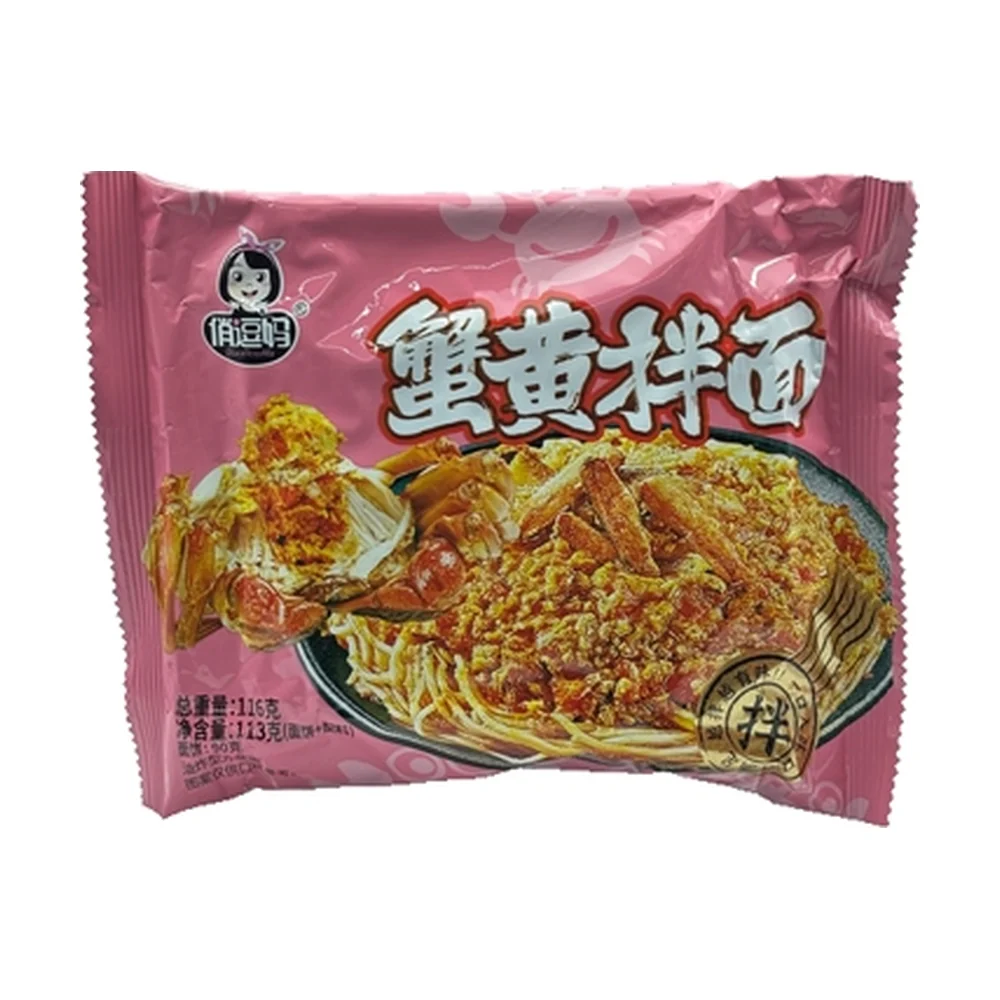
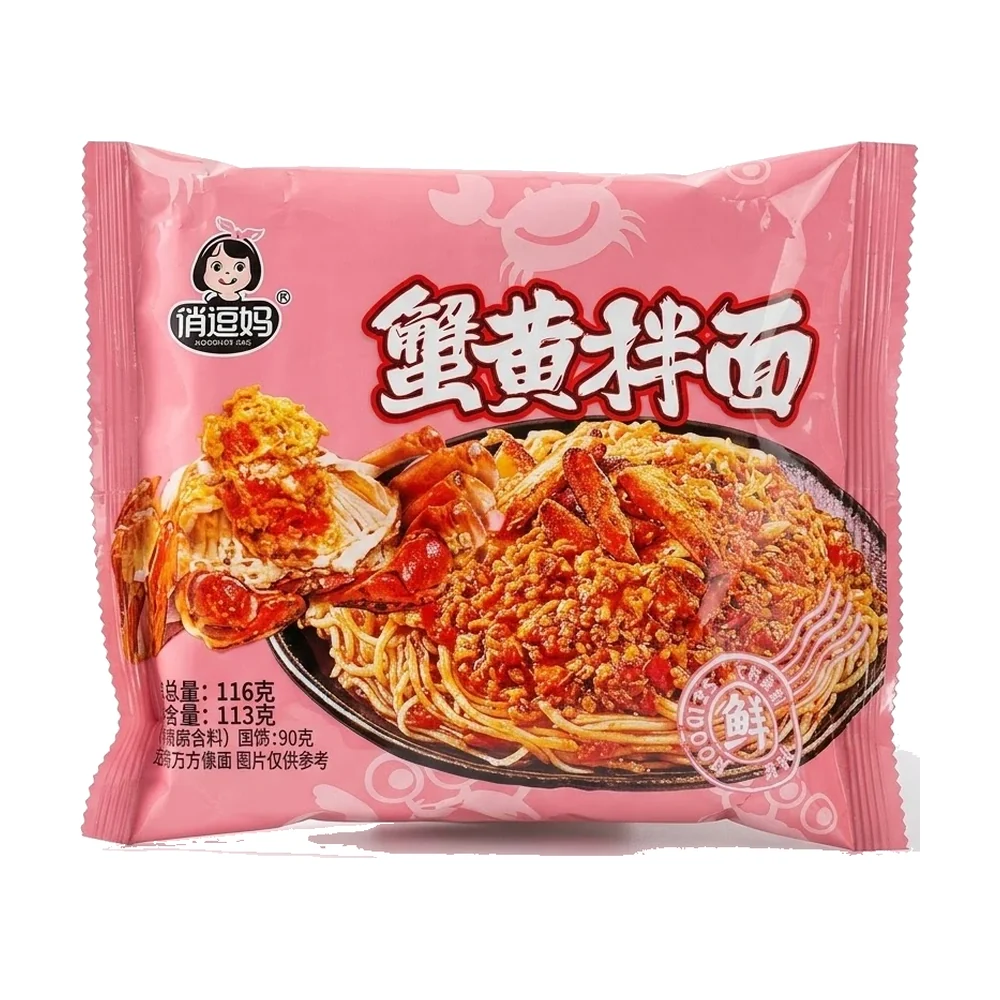
review(2549342-mi-tron-mi-kho-spaghetti-goi): crab-roe noodles from owner-approved AI image; RUBRIC v8
Claude-Session: https://claude.ai/code/session_01WMj85wQmgde5QuFckyUipF

diff --git a/RUBRIC.md b/RUBRIC.md
@@ -108,3 +108,4 @@ Category có thể có khuôn riêng chi tiết hơn trong `categories/<id>-<slu
 | v5 | 2026-10-14 | I4: ảnh đúng SP nhưng nền màu (ảnh nhân viên chụp, banner chính hãng có nền/hiệu ứng/chữ khuyến mãi) được **tách nền** bằng `tools/cutout.py` (cắt sát SP, bỏ huy hiệu/chữ ngoài SP). Chỉ cắt, **không** vẽ lại/sửa SP; mở ảnh xem viền, nắp/vành trắng; viền xấu → không dùng. Nguồn ảnh vẫn theo v3. | Chủ (Omachi Quán Xá Châu Á) |
 | v6 | 2026-10-14 | Nguồn ảnh: **ưu tiên ảnh hãng** (render/packshot chính hãng) hơn ảnh tự chụp hay ảnh KiotViet hiện có, kể cả khi ảnh hãng là bản bao bì gần giống (vd. gói thường thay cho bản "Bát To Đặc Biệt") miễn **cùng sản phẩm, cùng vị**. Ghi rõ khác biệt trong `reason`; **mô tả vẫn theo SP đang bán** (khối lượng, nhãn). Khác vị/khác loại SP thì vẫn không được dùng. Ảnh tự chụp chỉ dùng khi hãng không có ảnh. | Chủ (Phở Gà Cung Đình Bát To) |
 | v7 | 2026-10-14 | Ảnh thiếu sáng/ám màu (ảnh tự chụp, ảnh KiotViet) được chỉnh bằng `tools/tone.py`: chỉ **cân bằng trắng** (mỗi kênh ±8%, theo vùng trắng/xám trên bao bì) và **độ sáng toàn ảnh** (levels trên độ sáng, giữ màu/độ bão hoà; chỉ nâng trung tông khi ảnh thiếu sáng). Không chỉnh cục bộ, không sửa chi tiết. Bao bì vốn tối (chai đen, gói đỏ đậm) vẫn phải nhìn tối. Mở so trước/sau. | Chủ (sốt Buldak) |
+| v8 | 2026-10-14 | Ảnh **AI tạo lại** bao bì chỉ dùng khi **chủ gửi và duyệt từng SP** (hãng không có ảnh, ảnh thật xấu). AI có thể đổi chi tiết nhỏ trên bao bì (chữ, con dấu, dòng khối lượng): phải so với gói thật, báo chủ khác biệt trước khi dùng; mô tả vẫn theo gói thật. Ghi `source.aiGenerated: true` và khác biệt vào `reason`. Phiên AI **không tự tạo** ảnh. | Chủ (mì trộn gạch cua) |
